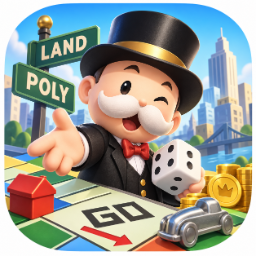
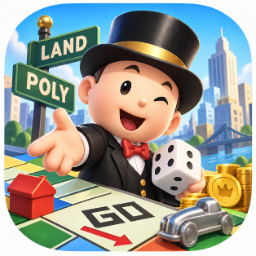
style: remove moustache from Land Poly launcher artwork
Retouch the supplied mascot image, then regenerate the 256px icon's Android,
splash, and Play derivatives. Record remaining top-hat and GO-board similarity
under the Play impersonation and IP review notes.

Validated the icon asset tests, production web build, Android debug build,
APK label, packaged icon bytes, and debug v2 signature.

Changed region(s): [[0.375, 0.3438, 0.6875, 0.5312]]

diff --git a/docs/DESIGN.md b/docs/DESIGN.md
@@ -22,7 +22,7 @@ Capacitor; also runs in any modern browser.
 
 | # | Constraint |
 |---|-----------|
-| C1 | Keep in-game names and art independent of Monopoly / 부루마블 / 모두의마블 (see `docs/research/02-ip-licensing-research.md`). The owner-supplied launcher image depicts a top-hat tycoon and a GO board space; clear its rights and risk of confusing store users before submission. |
+| C1 | Keep in-game names and art independent of Monopoly / 부루마블 / 모두의마블 (see `docs/research/02-ip-licensing-research.md`). Removing the moustache from the supplied launcher image does not resolve its top-hat character and GO board-space resemblance; clear rights and confusion risk before store submission. |
 | C2 | 100% offline. No network calls, no analytics, no ads, no accounts. |
 | C3 | Single device, landscape only, tablet-first (primary target 10–13" Android tablets, 4:3 to 16:10). Must still be usable on a 7" tablet and a phone in landscape (min 640×360 CSS px). |
 | C4 | In-game art = inline SVG / CSS authored in this repo. The 256px launcher bitmap is owner-supplied with rights pending verification. Fonts = SIL OFL fonts vendored in `public/fonts`. Audio = synthesized at runtime. |

diff --git a/docs/RELEASE.md b/docs/RELEASE.md
@@ -394,7 +394,7 @@ lint 경고만 납니다).
 
 모든 런처 아이콘과 스플래시는 사용자 제공 이미지를 256×256으로 축소한 `docs/assets/launcher-mark-256.png`에서 생성합니다 (Playwright + Chromium 필요).
 Play 등록용 512px 이미지와 Android 밀도별 리소스는 이 한 장에서 생성합니다. 게임 타이틀 화면은 기존 주사위 그림을 사용합니다.
-첨부 이미지의 캐릭터와 `GO` 칸은 기존 게임을 연상시키므로 스토어 게시 전 사용 권리와 오인 가능성을 확인해야 합니다.
+콧수염을 제거한 아이콘에도 실크해트 캐릭터와 `GO` 칸이 남아 있으므로 스토어 게시 전 사용 권리와 오인 가능성을 확인해야 합니다.
 
 ```bash
 node scripts/gen-android-icons.mjs              # Android 리소스 + Play 그래픽 모두
